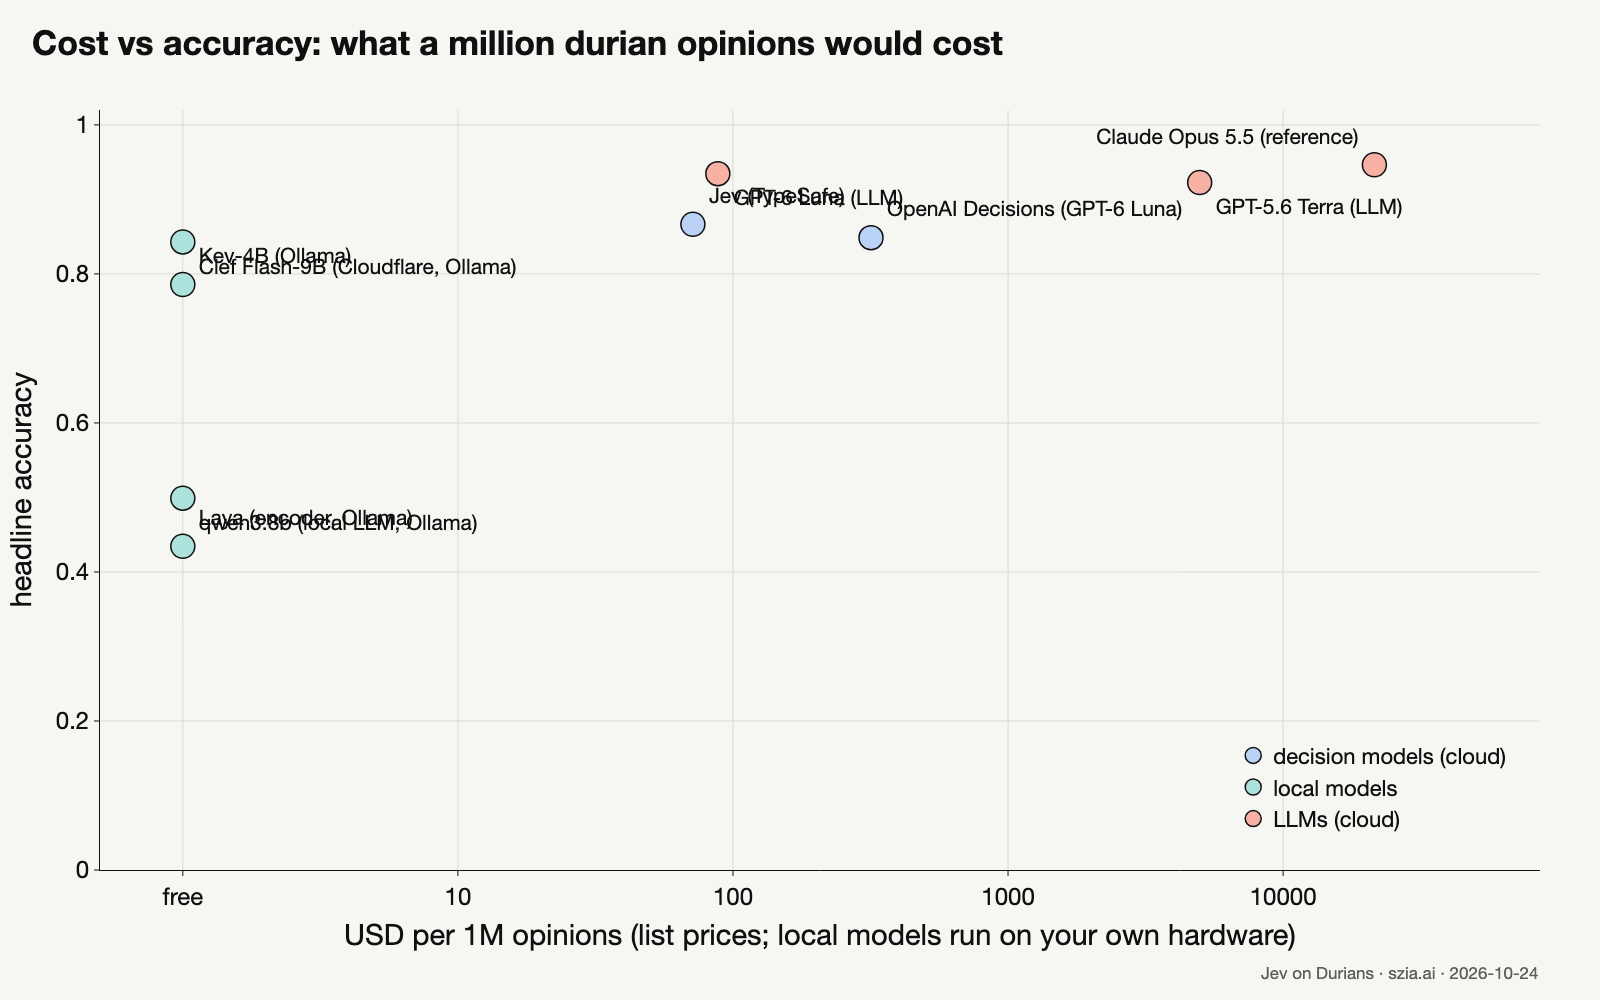
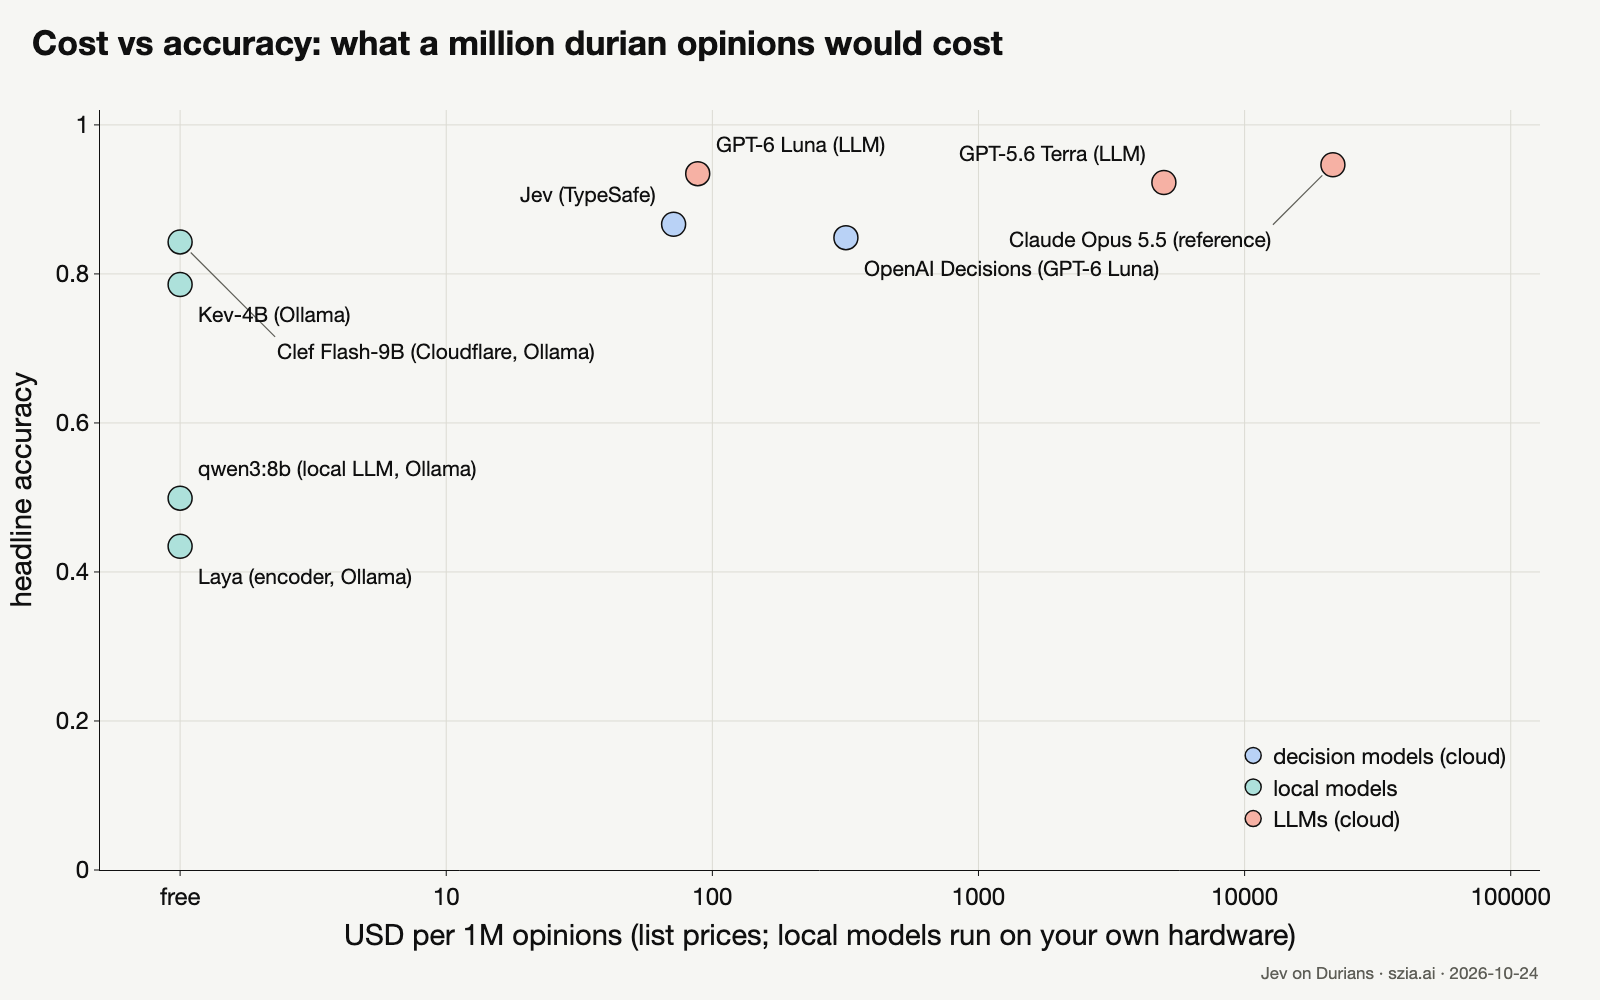
licanse and fixes

diff --git a/src/charts.py b/src/charts.py
@@ -33,7 +33,8 @@ SEQUENTIAL = [[0.0, PAPER], [0.5, SKY], [1.0, "#6F98DD"]]
 FONT = "IBM Plex Sans, Helvetica Neue, Arial, sans-serif"
 WIDTH = 1600
 HEIGHT = 1000
-MARKER = dict(size=24, line=dict(color=INK, width=1.5))
+MARKER_SIZE = 24
+MARKER = dict(size=MARKER_SIZE, line=dict(color=INK, width=1.5))
 CHART_FILES = {
     "cost_vs_accuracy": "01_cost_vs_accuracy.png",
     "time_per_opinion": "02_time_per_opinion.png",
@@ -41,7 +42,7 @@ CHART_FILES = {
     "accuracy_by_language": "04_accuracy_by_language.png",
     "rating_vs_real": "05_rating_vs_real.png",
     "durian_elo": "06_durian_elo.png",
-    "time_vs_accuracy_local": "07_time_vs_accuracy_local.png",
+    "time_vs_accuracy": "07_time_vs_accuracy.png",
 }
 
 
@@ -100,14 +101,119 @@ def _family_traces(fig: go.Figure, families: pd.Series) -> None:
         )
 
 
-def _alternating_positions(x: pd.Series) -> list[str]:
-    """Label positions alternating above and below in x order, so close points don't collide."""
-    order = x.rank(method="first")
-    positions = ["top right" if int(rank) % 2 else "bottom right" for rank in order]
-    if positions:
-        rightmost = int(np.argmax(x.to_numpy()))
-        positions[rightmost] = positions[rightmost].replace("right", "left")
-    return positions
+def _place_labels(
+    fig: go.Figure,
+    x: pd.Series,
+    y: pd.Series,
+    labels: pd.Series,
+    x_range: tuple[float, float],
+    y_range: tuple[float, float],
+    x_log: bool = False,
+    font_size: int = 21,
+) -> None:
+    """
+    Label points without overlaps: each label tries positions around its point at growing
+    distances, skipping any that would cover another label or marker; a label that had to move
+    far gets a thin leader line.
+
+    Args:
+        fig: The figure; its margins and the ranges below give the pixel geometry.
+        x: Point x values (data units).
+        y: Point y values (data units).
+        labels: One label per point.
+        x_range: The x axis range as set on the figure (log10 units when `x_log`).
+        y_range: The y axis range as set on the figure.
+        x_log: Whether the x axis is logarithmic.
+        font_size: Label font size in pixels.
+    """
+    margin = fig.layout.margin
+    left, top = float(margin.l), float(margin.t)
+    plot_width = WIDTH - left - float(margin.r)
+    plot_height = HEIGHT - top - float(margin.b)
+    x_values = np.log10(x.to_numpy(dtype=float)) if x_log else x.to_numpy(dtype=float)
+    px = left + (x_values - x_range[0]) / (x_range[1] - x_range[0]) * plot_width
+    py = (
+        top
+        + plot_height
+        - (y.to_numpy(dtype=float) - y_range[0]) / (y_range[1] - y_range[0]) * plot_height
+    )
+    radius = MARKER_SIZE / 2 + 3
+    clearance = radius + 22  # a label must not crowd someone else's point
+    markers = [
+        (cx - clearance, cy - clearance, cx + clearance, cy + clearance)
+        for cx, cy in zip(px, py, strict=True)
+    ]
+    taken: list[tuple[float, float, float, float]] = []
+    char_width, line_height = font_size * 0.56, font_size * 1.3
+    directions = [(1, -1), (1, 1), (-1, -1), (-1, 1), (1, 0), (-1, 0), (0, -1), (0, 1)]
+
+    def overlaps(box: tuple[float, float, float, float], own: int) -> bool:
+        others = [marker for index, marker in enumerate(markers) if index != own]
+        return any(
+            box[0] < other[2] and box[2] > other[0] and box[1] < other[3] and box[3] > other[1]
+            for other in [*taken, *others]
+        )
+
+    points = zip(px, py, x, y, labels, strict=True)
+    for own, (cx, cy, x_data, y_data, label) in enumerate(points):
+        width, height = len(str(label)) * char_width, line_height
+        choice = None
+        for distance in (16, 34, 60, 95, 140, 200):
+            for sx, sy in directions:
+                ax, ay = cx + sx * distance, cy + sy * distance
+                x0 = ax if sx > 0 else ax - width if sx < 0 else ax - width / 2
+                y0 = ay - height if sy < 0 else ay if sy > 0 else ay - height / 2
+                box = (x0, y0, x0 + width, y0 + height)
+                inside = (
+                    left <= x0
+                    and box[2] <= left + plot_width
+                    and top <= y0
+                    and box[3] <= top + plot_height
+                )
+                if inside and not overlaps(box, own):
+                    choice = (sx * distance, sy * distance, sx, sy, box, distance)
+                    break
+            if choice:
+                break
+        if choice is None:
+            choice = (16, -16, 1, -1, (cx + 16, cy - 16 - height, cx + 16 + width, cy - 16), 16)
+        dx, dy, sx, sy, box, distance = choice
+        taken.append(box)
+        x_pos = float(np.log10(x_data)) if x_log else x_data  # log axes take log10 positions
+        fig.add_annotation(
+            x=x_pos,
+            y=y_data,
+            text=str(label),
+            xshift=dx,
+            yshift=-dy,
+            xanchor="left" if sx > 0 else "right" if sx < 0 else "center",
+            yanchor="bottom" if sy < 0 else "top" if sy > 0 else "middle",
+            showarrow=False,
+            font=dict(size=font_size),
+        )
+        if distance > 20:  # a leader line from the marker's edge to the nearest point of the label
+            bx, by = min(max(cx, box[0]), box[2]), min(max(cy, box[1]), box[3])
+            vx, vy = bx - cx, by - cy
+            norm = float(np.hypot(vx, vy)) or 1.0
+            sx0, sy0 = cx + vx / norm * radius, cy + vy / norm * radius
+
+            def to_x(value: float) -> float:
+                return x_range[0] + (value - left) / plot_width * (x_range[1] - x_range[0])
+
+            def to_y(value: float) -> float:
+                return y_range[0] + (top + plot_height - value) / plot_height * (
+                    y_range[1] - y_range[0]
+                )
+
+            fig.add_shape(  # unlike annotations, shapes on a log axis take raw values
+                type="line",
+                x0=10 ** to_x(sx0) if x_log else to_x(sx0),
+                y0=to_y(sy0),
+                x1=10 ** to_x(bx) if x_log else to_x(bx),
+                y1=to_y(by),
+                line=dict(color=GRAPHITE, width=1.2),
+                layer="above",
+            )
 
 
 def _log_ticks(low: float, high: float) -> list[float]:
@@ -164,8 +270,7 @@ def cost_vs_accuracy(summary: pd.DataFrame, path: Path, date: str) -> go.Figure:
     lowest_paid = float(paid["usd_per_1m_opinions"].min()) if not paid.empty else 100.0
     free_x = 10 ** (np.floor(np.log10(lowest_paid)) - 1)
     x = summary["usd_per_1m_opinions"].where(~summary["local"], free_x).astype(float)
-    top = max(float(x.max()) * 4, free_x * 100) if len(x) else free_x * 100
-    positions = _alternating_positions(x)
+    top = max(float(x.max()) * 6, free_x * 100) if len(x) else free_x * 100
     for fill in dict.fromkeys(FAMILY_FILLS[family] for family in summary["family"]):
         mask = summary["family"].map(FAMILY_FILLS) == fill
         rows = summary[mask]
@@ -173,11 +278,8 @@ def cost_vs_accuracy(summary: pd.DataFrame, path: Path, date: str) -> go.Figure:
             go.Scatter(
                 x=x[mask],
                 y=rows["headline"],
-                mode="markers+text",
+                mode="markers",
                 text=rows["label"],
-                textposition=[pos for pos, keep in zip(positions, mask, strict=True) if keep],
-                textfont=dict(size=21),
-                cliponaxis=False,
                 marker=dict(color=fill, **MARKER),
                 name=FAMILY_LEGEND[fill],
                 customdata=rows["usd_per_1m_opinions"],
@@ -186,13 +288,15 @@ def cost_vs_accuracy(summary: pd.DataFrame, path: Path, date: str) -> go.Figure:
             )
         )
     ticks = [free_x, *[10.0**k for k in range(int(np.log10(free_x)) + 1, int(np.log10(top)) + 1)]]
+    x_range = (float(np.log10(free_x / 2)), float(np.log10(top)))
     fig.update_xaxes(
         type="log",
-        range=[np.log10(free_x / 2), np.log10(top)],
+        range=list(x_range),
         tickvals=ticks,
         ticktext=["free", *[f"{tick:g}" for tick in ticks[1:]]],
     )
     fig.update_yaxes(range=[0, 1.02])
+    _place_labels(fig, x, summary["headline"], summary["label"], x_range, (0, 1.02), x_log=True)
     fig.update_layout(legend=dict(x=0.98, y=0.04, xanchor="right", yanchor="bottom"))
     _save(fig, path)
     return fig
@@ -249,7 +353,7 @@ def time_per_opinion(summary: pd.DataFrame, path: Path, date: str) -> go.Figure:
     fig.update_xaxes(range=[0, float(ordered["p95_s"].max()) * 1.35])
     fig.update_yaxes(showgrid=False, ticks="")
     fig.update_layout(
-        legend=dict(x=0.98, y=0.02, xanchor="right", yanchor="bottom"), margin=dict(l=40)
+        legend=dict(x=0.98, y=0.98, xanchor="right", yanchor="top"), margin=dict(l=40)
     )
     _save(fig, path)
     return fig
@@ -481,12 +585,12 @@ def durian_elo(
     return fig
 
 
-def time_vs_accuracy_local(summary: pd.DataFrame, path: Path, date: str, machine: str) -> go.Figure:
+def time_vs_accuracy(summary: pd.DataFrame, path: Path, date: str, machine: str) -> go.Figure:
     """
-    Chart 7: for the local models, seconds per opinion (p50, log x) vs headline accuracy.
+    Chart 7: seconds per opinion (p50, log x) vs headline accuracy for every solution.
 
     Args:
-        summary: The part-1 table (`label`, `family`, `local`, `headline`, `p50_s`, `p95_s`).
+        summary: The part-1 table (`label`, `family`, `headline`, `p50_s`, `p95_s`).
         path: Where to save the PNG.
         date: The date for the source line.
         machine: What the local models ran on, for the title.
@@ -495,51 +599,43 @@ def time_vs_accuracy_local(summary: pd.DataFrame, path: Path, date: str, machine
         The figure (also saved to `path`).
     """
     fig = _figure(
-        f"Local models: time vs accuracy ({machine})",
+        f"Time vs accuracy (local models on {machine})",
         date,
-        "seconds per opinion (p50, one request with 18 questions; no network)",
+        "seconds per opinion, p50 (cloud calls include the round trip from Singapore)",
         "headline accuracy",
     )
-    local = summary[summary["local"]].dropna(subset=["p50_s", "headline"])
-    if local.empty:
-        _empty_note(fig, "no local model ran in this run")
+    timed = summary.dropna(subset=["p50_s", "headline"])
+    if timed.empty:
+        _empty_note(fig, "no timed solution in this run")
         _save(fig, path)
         return fig
-    positions = _alternating_positions(local["p50_s"])
-    for family, symbol, name in (
-        ("decision_local", "circle", "decision models (local)"),
-        ("llm_local", "diamond", "LLMs (local)"),
-    ):
-        mask = local["family"] == family
-        rows = local[mask]
-        if rows.empty:
-            continue
+    for fill in dict.fromkeys(FAMILY_FILLS[family] for family in timed["family"]):
+        mask = timed["family"].map(FAMILY_FILLS) == fill
+        rows = timed[mask]
         fig.add_trace(
             go.Scatter(
                 x=rows["p50_s"],
                 y=rows["headline"],
-                mode="markers+text",
+                mode="markers",
                 text=rows["label"],
-                textposition=[pos for pos, keep in zip(positions, mask, strict=True) if keep],
-                textfont=dict(size=21),
-                cliponaxis=False,
-                marker=dict(color=AQUA, symbol=symbol, **MARKER),
-                name=name,
+                marker=dict(color=fill, **MARKER),
+                name=FAMILY_LEGEND[fill],
                 customdata=rows["p95_s"],
                 hovertemplate="%{text}<br>p50 %{x:.2f} s · p95 %{customdata:.2f} s<br>"
                 "headline %{y:.2f}<extra></extra>",
             )
         )
-    low, high = float(local["p50_s"].min()) / 3, float(local["p50_s"].max()) * 4
+    low, high = float(timed["p50_s"].min()) / 3, float(timed["p50_s"].max()) * 6
     ticks = _log_ticks(low, high)
+    x_range = (float(np.log10(low)), float(np.log10(high)))
     fig.update_xaxes(
-        type="log",
-        range=[np.log10(low), np.log10(high)],
-        tickvals=ticks,
-        ticktext=[f"{tick:g}" for tick in ticks],
+        type="log", range=list(x_range), tickvals=ticks, ticktext=[f"{tick:g}" for tick in ticks]
     )
     fig.update_yaxes(range=[0, 1.02])
     fig.update_layout(legend=dict(x=0.98, y=0.04, xanchor="right", yanchor="bottom"))
+    _place_labels(
+        fig, timed["p50_s"], timed["headline"], timed["label"], x_range, (0, 1.02), x_log=True
+    )
     _save(fig, path)
     return fig
 
@@ -584,7 +680,5 @@ def save_all(
         ),
         "rating_vs_real": rating_vs_real(points, files["rating_vs_real"], date),
         "durian_elo": durian_elo(gold_history, final_by_solution, files["durian_elo"], date),
-        "time_vs_accuracy_local": time_vs_accuracy_local(
-            summary, files["time_vs_accuracy_local"], date, machine
-        ),
+        "time_vs_accuracy": time_vs_accuracy(summary, files["time_vs_accuracy"], date, machine),
     }

diff --git a/README.md b/README.md
@@ -107,7 +107,7 @@ a data card here (_placeholder_).
 ## Results
 
 <!-- RESULTS:START -->
-_Measured on 83 opinions, 2026-10-24 10:14 +08 (mode: full); local models ran on MacBook Air, Apple M2, 24 GB, Ollama 0.40.9._
+_Measured on 83 opinions, 2026-10-24 10:48 +08 (mode: full); local models ran on MacBook Air, Apple M2, 24 GB, Ollama 0.40.9._
 
 **Part 1 - accuracy, time, money** (headline = mean of aspects F1, sentiment accuracy, compares F1 and variety accuracy; prices from `config/prices.yaml`; local models cost nothing per call):
 
@@ -147,7 +147,7 @@ Accept only answers at or above a cutoff and send the rest for manual review: ac
 | ≥ 0.90 | 0.98 (71%) | 0.96 (86%) | 1.00 (30%) | 0.99 (67%) | 0.90 (12%) |
 | ≥ 0.95 | 1.00 (56%) | 0.96 (83%) | 0.99 (13%) | 0.99 (52%) | 1.00 (3%) |
 
-Charts: [cost vs accuracy](assets/charts/01_cost_vs_accuracy.png), [time per opinion](assets/charts/02_time_per_opinion.png), [accuracy by question](assets/charts/03_accuracy_by_question.png), [accuracy by language](assets/charts/04_accuracy_by_language.png), [rating vs real](assets/charts/05_rating_vs_real.png), [durian elo](assets/charts/06_durian_elo.png), [time vs accuracy local](assets/charts/07_time_vs_accuracy_local.png). The Durian Elo (part 2) is in `results/summary.md`.
+Charts: [cost vs accuracy](assets/charts/01_cost_vs_accuracy.png), [time per opinion](assets/charts/02_time_per_opinion.png), [accuracy by question](assets/charts/03_accuracy_by_question.png), [accuracy by language](assets/charts/04_accuracy_by_language.png), [rating vs real](assets/charts/05_rating_vs_real.png), [durian elo](assets/charts/06_durian_elo.png), [time vs accuracy](assets/charts/07_time_vs_accuracy.png). The Durian Elo (part 2) is in `results/summary.md`.
 
 **Observations**
 
@@ -165,4 +165,8 @@ Skipped in this run: `ollama_d1` (model not pulled (ollama pull d1)); `ollama_te
 
 - Photo: najibzamri / Pixabay.
 - Opinions: the bloggers, forum members, reviewers and journalists linked in `data/durian_opinions.csv`.
-- Licence: _placeholder_.
+- Licence: the code, the notebook, the tests and the charts are under the [MIT License](LICENSE).
+  The quotes in `data/durian_opinions.csv` are short attributed excerpts whose copyright stays with
+  their authors; the labels and metadata around them are released under
+  [CC BY 4.0](https://creativecommons.org/licenses/by/4.0/). The photo is under the
+  [Pixabay Content License](https://pixabay.com/service/license-summary/).
